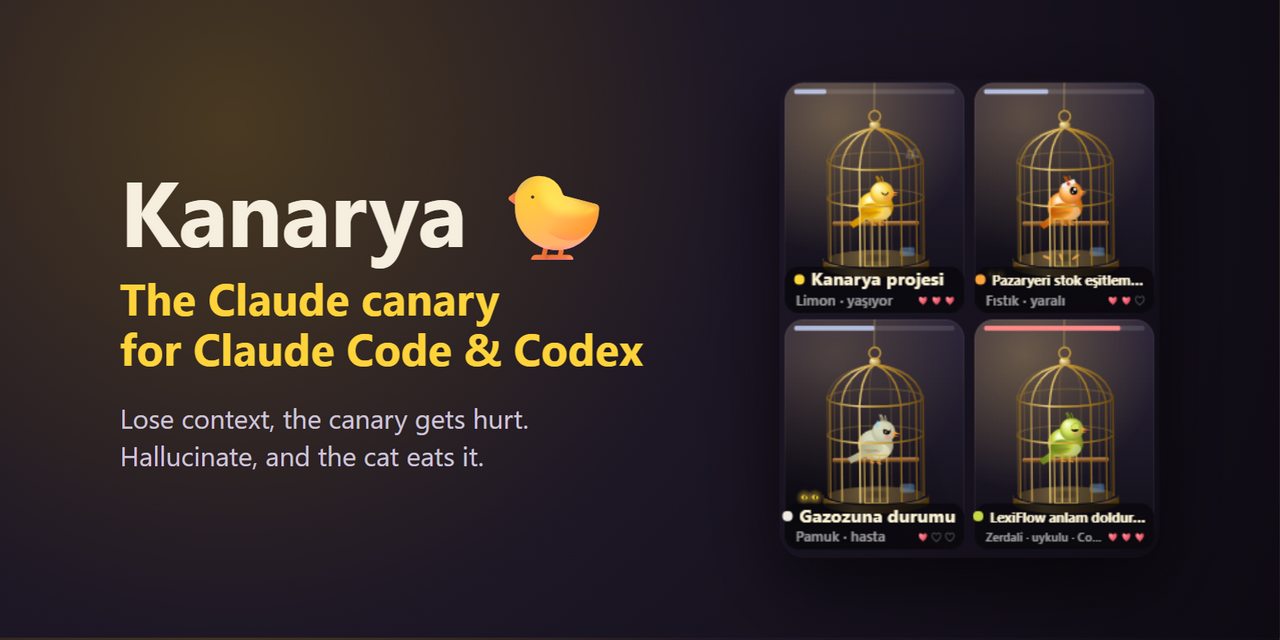
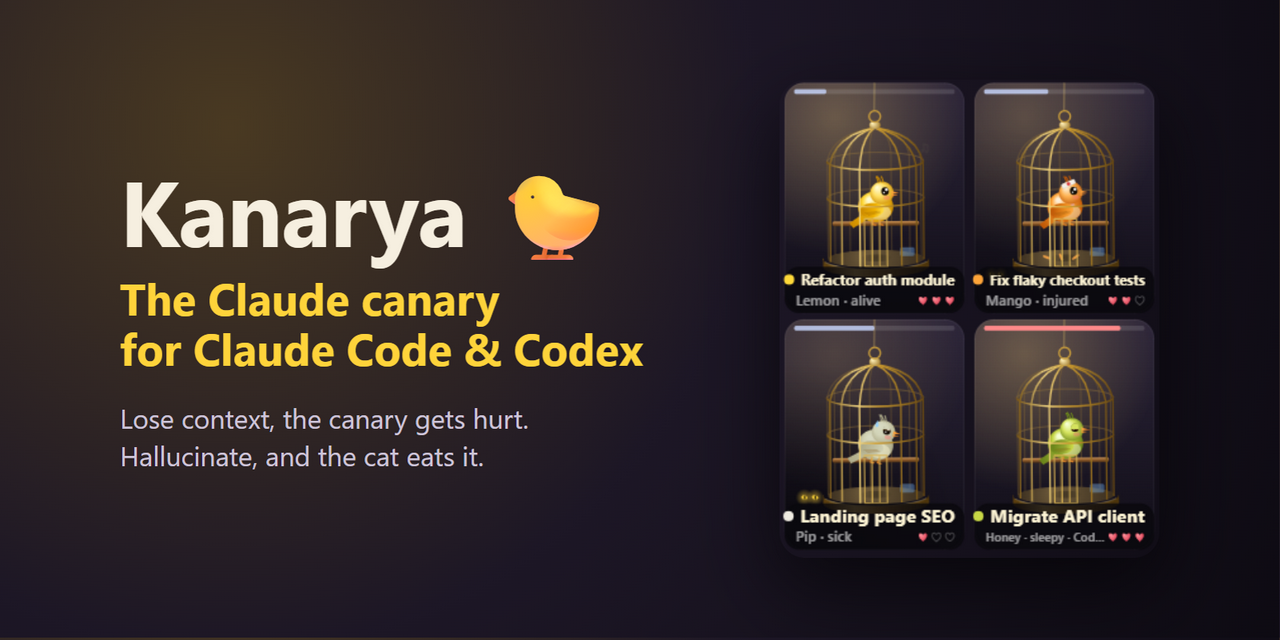
Belge görselleri İngilizce ve genel örnek başlıklarla

Changed region(s): [[0.5938, 0.4062, 0.9062, 0.5], [0.625, 0.7812, 0.9062, 0.8438]]

diff --git a/app/scene.js b/app/scene.js
@@ -790,7 +790,7 @@ window.kanaryaFreeze = (what, sec, lang, variant = 0, count = 1) => {
     dead: { mood: 'injured', lives: 0, status: 'dead', contextPct: 0.5, deathCause: 'hallucination' },
   };
   const names = lang === 'en' ? ['Lemon', 'Mango', 'Pip', 'Honey', 'Biscuit', 'Sunny'] : ['Limon', 'Fıstık', 'Pamuk', 'Zerdali', 'Tarçın', 'Bal'];
-  const labels = ['Kanarya projesi', 'Pazaryeri stok eşitlemesi', 'Gazozuna durumu', 'LexiFlow anlam doldurma', 'IF-ies MES sunucu çıkışı', 'COMP 301 Lab 7'];
+  const labels = lang === 'en' ? ['Refactor auth module', 'Fix flaky checkout tests', 'Landing page SEO', 'Migrate API client', 'Release notes 2.1', 'Docs cleanup'] : ['Giriş modülünü düzenle', 'Ödeme testlerini düzelt', 'Tanıtım sayfası SEO', 'API istemcisini taşı', 'Sürüm notları 2.1', 'Belge temizliği'];
   const order = [what, 'injured', 'sick', 'sleepy', 'happy', 'dead'];
   frozen = { t: 10 };
   cages = [];
